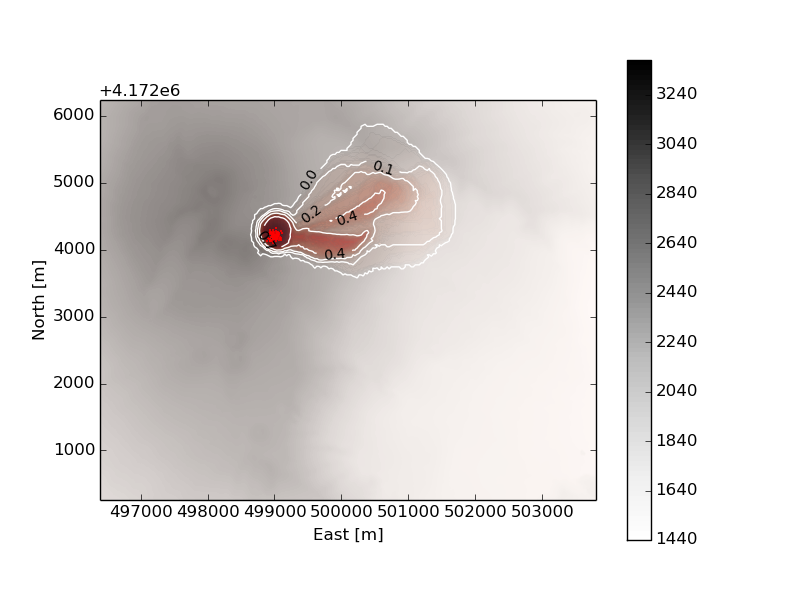
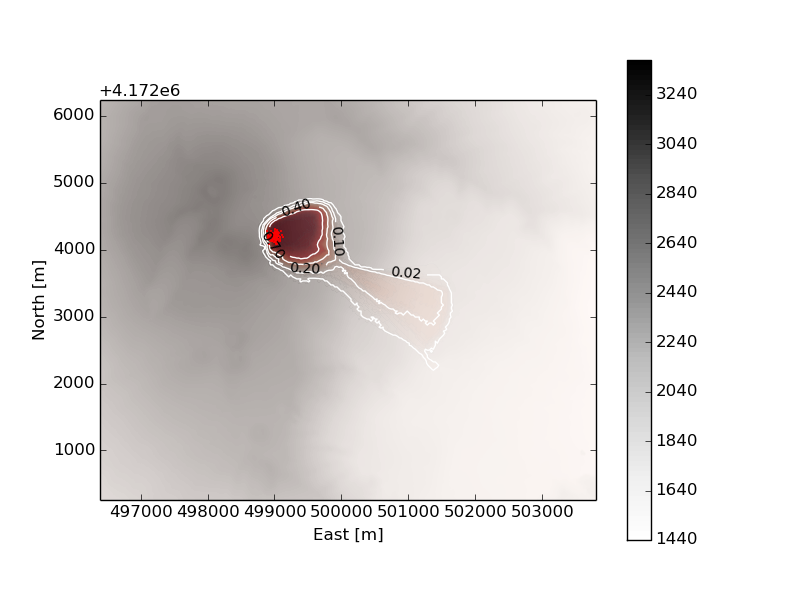
Major changes

Changed region(s): [[0.3125, 0.24, 0.5625, 0.54], [0.4375, 0.21, 0.4688, 0.24]]

diff --git a/ECMapProb.py b/ECMapProb.py
@@ -224,7 +224,7 @@ if(source_dem == 2):
 	for i in range(indexini, indexini + n_north):
 		aux = line[i].split()
 		for j in range(0, n_east):
-			Topography[n_north-1-i+indexini,j] = float(aux[j])
+			Topography[i-indexini,j] = float(aux[j])
 
 # DEFINE THE MATRIX OF COORDINATES
 if(source_dem == 1):
@@ -237,7 +237,7 @@ if(source_dem == 1):
 	matrix_lon = np.zeros((cells_lat,cells_lon))
 	matrix_lat = np.zeros((cells_lat,cells_lon))
 
-	for i in range(0,cells_lon):
+	for i in range(0,cells_lon): 
 		matrix_lon[:,i] = lon1 + (lon2 - lon1)*(i)/(cells_lon-1)
 	for j in range(0,cells_lat):
 		matrix_lat[j,:] = lat1 + (lat2 - lat1)*(cells_lat-1-j)/(cells_lat-1)
@@ -253,6 +253,7 @@ if(source_dem == 2):
 		matrix_east[:,i] = (east_cor + cellsize * i)
 	for j in range(0,n_north):
 		matrix_north[j,:] = (north_cor + cellsize * j)
+	matrix_north = matrix_north[ range(len(matrix_north[:,0]) -1 , -1 , -1 ) , : ]
 
 # CREATE VECTORS OF INPUT PARAMETERS AND DELETE NEGATIVE DATA
 print 'Creating input vectors'
@@ -302,8 +303,8 @@ while( 1 == 1 ):
 if(source_dem == 1):
 
 	if( var_cen > 0.0):
-		lon_cen_vector = np.random.normal(lon_cen,var_cen*step_lon_deg/step_lon_m,N)
-		lat_cen_vector = np.random.normal(lat_cen,var_cen*step_lat_deg/step_lat_m,N)
+		lon_cen_vector = np.random.normal(lon_cen, var_cen * step_lon_deg / step_lon_m, N)
+		lat_cen_vector = np.random.normal(lat_cen, var_cen * step_lat_deg / step_lat_m, N)
 	else:
 		lon_cen_vector = np.ones(N) * lon_cen
 		lat_cen_vector = np.ones(N) * lat_cen
@@ -562,13 +563,13 @@ if(source_dem == 1):
 	plt.contourf(matrix_lon,matrix_lat,Topography,100,cmap=cmapg,min=0)
 	plt.colorbar()
 	cmapr = plt.cm.get_cmap('Reds')
-	CS = plt.contourf(matrix_lon,matrix_lat,data_cones, 100, alpha= 0.5, interpolation='linear', cmap=cmapr, antialiased=True, lw=0.01)	
-	fmt = '%.2f'
 	if( N > 1 ):
-		CS_lines = plt.contour(matrix_lon,matrix_lat,data_cones, np.array([0.02, 0.1, 0.2, 0.4, 0.7]), colors='w', interpolation='linear')
+		CS = plt.contourf(matrix_lon,matrix_lat,data_cones, min(100,N+1), alpha= 0.5, interpolation='linear', cmap=cmapr, antialiased=True, lw=0.01)	
+		fmt = '%.2f'
+		CS_lines = plt.contour(matrix_lon,matrix_lat,data_cones, np.array([0.02, 0.1, 0.2, 0.4, 0.7]), colors='w', interpolation='linear', lw=0.01)
 		plt.clabel(CS_lines, inline=1, fontsize=10, colors='k', fmt=fmt)
 	else:
-		CS_lines = plt.contour(matrix_lon, matrix_lat,data_cones, colors='w', interpolation='linear')
+		CS = plt.contourf(matrix_lon, matrix_lat, data_cones, 100, alpha= 0.5, interpolation='nearest', cmap=cmapr, antialiased=True, lw=0.01)	
 	plt.axes().set_aspect(step_lat_m/step_lon_m)
 	plt.xlabel('Longitude $[^\circ]$')
 	plt.ylabel('Latitude $[^\circ]$')
@@ -580,30 +581,34 @@ if(source_dem == 1):
 		plt.plot( lon_cen_vector[i], lat_cen_vector[i], 'r.', markersize=2)
 	plt.savefig(run_name + '_map.png')
 
-	plt.figure(2)
-	plt.subplot(131)
-	plt.hist(height_vector)
-	plt.xlabel('Initial height [m]')
-	plt.subplot(132)
-	plt.hist(hl0_vector)
-	plt.xlabel('H/L0')
-	plt.subplot(133)
-	plt.hist(hl_vector)
-	plt.xlabel('H/L')
-	plt.savefig(run_name + '_histogram.png')
+	if( N > 1 ):
+		plt.figure(2)
+		plt.subplot(131)
+		plt.hist(height_vector)
+		plt.xlabel('Initial height [m]')
+		plt.subplot(132)
+		plt.hist(hl0_vector)
+		plt.xlabel('H/L0')
+		plt.subplot(133)
+		plt.hist(hl_vector)
+		plt.xlabel('H/L')
+		plt.savefig(run_name + '_histogram.png')
 	plt.show()
-
+	
 if(source_dem == 2):
-	data_cones = data_cones / N
+	data_cones = data_cones[ range(len(data_cones[:,0]) -1 , -1 , -1 ) , : ] / N
 	plt.figure(1)
 	cmapg = plt.cm.get_cmap('Greys')
 	plt.contourf(matrix_east,matrix_north,Topography,100,cmap=cmapg,min=0)
 	plt.colorbar()
 	cmapr = plt.cm.get_cmap('Reds')
-	CS = plt.contourf(matrix_east,matrix_north,data_cones, N+1, alpha= 0.5, interpolation='nearest', cmap=cmapr, min=1e-20, max=1.01, antialiased=True, lw=0.01)	
-	fmt = '%.1f'
-	CS_lines = plt.contour(matrix_east,matrix_north,data_cones, np.array([0.01, 0.1, 0.2, 0.4, 0.7]), min=1e-20, max=1.01, colors='w', linewidth = 0.1, interpolation='nearest')
-	plt.clabel(CS_lines, inline=1, fontsize=10, colors='k', fmt=fmt)
+	if( N > 1 ):
+		CS = plt.contourf(matrix_east,matrix_north,data_cones, min(100,N+1), alpha= 0.5, interpolation='linear', cmap=cmapr, antialiased=True, lw=0.01)	
+		fmt = '%.2f'
+		CS_lines = plt.contour(matrix_east,matrix_north,data_cones, np.array([0.02, 0.1, 0.2, 0.4, 0.7]), colors='w', interpolation='linear', lw=0.01)
+		plt.clabel(CS_lines, inline=1, fontsize=10, colors='k', fmt=fmt)
+	else:
+		CS = plt.contourf(matrix_east,matrix_north,data_cones, 100, alpha= 0.5, interpolation='nearest', cmap=cmapr, antialiased=True, lw=0.01)	
 	plt.axes().set_aspect(1.0)
 	plt.xlabel('East [m]')
 	plt.ylabel('North [m]')
@@ -612,15 +617,16 @@ if(source_dem == 2):
 		plt.plot( east_cen_vector[i], north_cen_vector[i], 'r.', markersize=2)
 	plt.savefig(run_name + '_map.png')
 
-	plt.figure(2)
-	plt.subplot(131)
-	plt.hist(height_vector)
-	plt.xlabel('Initial height [m]')
-	plt.subplot(132)
-	plt.hist(hl0_vector)
-	plt.xlabel('H/L0')
-	plt.subplot(133)
-	plt.hist(hl_vector)
-	plt.xlabel('H/L')
-	plt.savefig(run_name + '_histogram.png')
+	if( N > 1 ):
+		plt.figure(2)
+		plt.subplot(131)
+		plt.hist(height_vector)
+		plt.xlabel('Initial height [m]')
+		plt.subplot(132)
+		plt.hist(hl0_vector)
+		plt.xlabel('H/L0')
+		plt.subplot(133)
+		plt.hist(hl_vector)
+		plt.xlabel('H/L')
+		plt.savefig(run_name + '_histogram.png')
 	plt.show()

diff --git a/EXAMPLES/Phlegrean_Fields_2/input_data.py b/EXAMPLES/Phlegrean_Fields_2/input_data.py
@@ -1,0 +1,56 @@
+# Name of the run (used to save the parameters and the output)
+run_name = Phlegrean_Fields_2
+
+# Source of DEM (1 => SRTM 30 m / 2 => uploaded DEM. A default location is assumed for uploaded DEMS: input_DEM.asc, see an example in EXAMPLES/UploadDEM)
+source_dem = 1
+
+# Map limits (only considered if source_dem = 1)
+# lon1 = longitude of the first limit of the map
+# lon2 = longitude of the second limit of the map 
+# lat1 = latitude of the first limit of the map
+# lat2 = latitude of the second limit of the map
+lon1 = 13.9
+lon2 = 14.4
+lat1 = 40.6
+lat2 = 41.1
+
+# Number of cones
+cone_levels = 30
+
+# Probability distribution of collapse location (1 => Punctual / 2 => Linear / 3 => Circumference arch)
+dist_source = 3
+
+# Parameters of the collapse location
+# lon_cen = longitude of the collapse zone center (only considered if source_dem = 1)
+# lat_cen = latitude of the collapse zone center (only considered if source_dem = 1)
+# east_cen = east coordinate of collapse zone center (only considered if source_dem = 2)
+# north_cen = north coordinate of collapse zone center (only considered if source_dem = 2)
+# var_cen = uncertainty of collapse position (in meters)
+# azimuth_lin = azimuth of the line that define the collapse zone (in degrees, only considered if dist_source = 2)
+# length_lin = length of the line that define the collapse zone (in meters, only considered if dist_source = 2)
+# radius_rad = radius of the circumference arch that define the collapse zone (in meters, only considered if dist_source = 3)
+# ang1_rad = initial angle of the circumference arch that define the collapse zone (in degrees, only considered if dist_source = 3. Anticlockwise)
+# ang2_rad = initial angle of the circumference arch that define the collapse zone (in degrees, only considered if dist_source = 3. Anticlockwise)
+lon_cen = 14.13
+lat_cen = 40.85
+var_cen = 1000.0
+radius_rad = 4000.0
+ang1_rad = -60.0
+ang2_rad = 240.0
+
+# Other parameters of energy cones
+# height = expected height of collapse (above the surface, in meters)
+# hl0 = initial H/L for the energy cones
+# hl = minimum H/L for the energy cones
+# var_height = uncertainty of collapse height (in meters)
+# var_hl0 = uncertainty of hl0
+# var_hl = uncertainty of hl
+height = 800.0
+hl0 = 0.50
+hl = 0.10
+var_height = 200.0
+var_hl0 = 0.03
+var_hl = 0.005
+
+# Number of energy cones computed by the code
+N = 100

diff --git a/EXAMPLES/Phlegrean_Fields/input_data.py b/EXAMPLES/Phlegrean_Fields/input_data.py
@@ -1,0 +1,53 @@
+# Name of the run (used to save the parameters and the output)
+run_name = Phlegrean_Fields
+
+# Source of DEM (1 => SRTM 30 m / 2 => uploaded DEM. A default location is assumed for uploaded DEMS: input_DEM.asc, see an example in EXAMPLES/UploadDEM)
+source_dem = 1
+
+# Map limits (only considered if source_dem = 1)
+# lon1 = longitude of the first limit of the map
+# lon2 = longitude of the second limit of the map 
+# lat1 = latitude of the first limit of the map
+# lat2 = latitude of the second limit of the map
+lon1 = 13.95
+lon2 = 14.35
+lat1 = 40.7
+lat2 = 41.0
+
+# Number of cones
+cone_levels = 30
+
+# Probability distribution of collapse location (1 => Punctual / 2 => Linear / 3 => Circumference arch)
+dist_source = 1
+
+# Parameters of the collapse location
+# lon_cen = longitude of the collapse zone center (only considered if source_dem = 1)
+# lat_cen = latitude of the collapse zone center (only considered if source_dem = 1)
+# east_cen = east coordinate of collapse zone center (only considered if source_dem = 2)
+# north_cen = north coordinate of collapse zone center (only considered if source_dem = 2)
+# var_cen = uncertainty of collapse position (in meters)
+# azimuth_lin = azimuth of the line that define the collapse zone (in degrees, only considered if dist_source = 2)
+# length_lin = length of the line that define the collapse zone (in meters, only considered if dist_source = 2)
+# radius_rad = radius of the circumference arch that define the collapse zone (in meters, only considered if dist_source = 3)
+# ang1_rad = initial angle of the circumference arch that define the collapse zone (in degrees, only considered if dist_source = 3. Anticlockwise)
+# ang2_rad = initial angle of the circumference arch that define the collapse zone (in degrees, only considered if dist_source = 3. Anticlockwise)
+lon_cen = 14.12
+lat_cen = 40.85
+var_cen = 2000.0
+
+# Other parameters of energy cones
+# height = expected height of collapse (above the surface, in meters)
+# hl0 = initial H/L for the energy cones
+# hl = minimum H/L for the energy cones
+# var_height = uncertainty of collapse height (in meters)
+# var_hl0 = uncertainty of hl0
+# var_hl = uncertainty of hl
+height = 800.0
+hl0 = 0.50
+hl = 0.10
+var_height = 200.0
+var_hl0 = 0.03
+var_hl = 0.005
+
+# Number of energy cones computed by the code
+N = 100

diff --git a/EXAMPLES/Santa_Maria/input_data.py b/EXAMPLES/Santa_Maria/input_data.py
@@ -1,0 +1,53 @@
+# Name of the run (used to sav the parameters and the output)
+run_name = Santa_Maria
+
+# Source of DEM (1 => SRTM 30 m / 2 => uploaded DEM. A default location is assumed for uploaded DEMS: input_DEM.asc, see an example in EXAMPLES/UploadDEM)
+source_dem = 1
+
+# Map limits (only considered if source_dem = 1)
+# lon1 = longitude of the first limit of the map
+# lon2 = longitude of the second limit of the map 
+# lat1 = latitude of the first limit of the map
+# lat2 = latitude of the second limit of the map
+lon1 = -91.8
+lon2 = -91.3
+lat1 = 14.4
+lat2 = 14.9
+
+# Number of cones
+cone_levels = 30
+
+# Probability distribution of collapse location (1 => Punctual / 2 => Linear / 3 => Circumference arch)
+dist_source = 1
+
+# Parameters of the collapse location
+# lon_cen = longitude of the collapse zone center (only considered if source_dem = 1)
+# lat_cen = latitude of the collapse zone center (only considered if source_dem = 1)
+# east_cen = east coordinate of collapse zone center (only considered if source_dem = 2)
+# north_cen = north coordinate of collapse zone center (only considered if source_dem = 2)
+# var_cen = uncertainty of collapse position (in meters)
+# azimuth_lin = azimuth of the line that define the collapse zone (in degrees, only considered if dist_source = 2)
+# length_lin = length of the line that define the collapse zone (in meters, only considered if dist_source = 2)
+# radius_rad = radius of the circumference arch that define the collapse zone (in meters, only considered if dist_source = 3)
+# ang1_rad = initial angle of the circumference arch that define the collapse zone (in degrees, only considered if dist_source = 3. Anticlockwise)
+# ang2_rad = initial angle of the circumference arch that define the collapse zone (in degrees, only considered if dist_source = 3. Anticlockwise)
+lon_cen = -91.568
+lat_cen = 14.739
+var_cen = 300.0
+
+# Other parameters of energy cones
+# height = expected height of collapse (above the surface, in meters)
+# hl0 = initial H/L for the energy cones
+# hl = minimum H/L for the energy cones
+# var_height = uncertainty of collapse height (in meters)
+# var_hl0 = uncertainty of hl0
+# var_hl = uncertainty of hl
+height = 1000.0
+hl0 = 0.50
+hl = 0.10
+var_height = 200.0
+var_hl0 = 0.05
+var_hl = 0.005
+
+# Number of energy cones computed by the code
+N = 200

diff --git a/EXAMPLES/El_Fuego/input_data.py b/EXAMPLES/El_Fuego/input_data.py
@@ -1,0 +1,53 @@
+# Name of the run (used to sav the parameters and the output)
+run_name = El_Fuego
+
+# Source of DEM (1 => SRTM 30 m / 2 => uploaded DEM. A default location is assumed for uploaded DEMS: input_DEM.asc, see an example in EXAMPLES/UploadDEM)
+source_dem = 1
+
+# Map limits (only considered if source_dem = 1)
+# lon1 = longitude of the first limit of the map
+# lon2 = longitude of the second limit of the map 
+# lat1 = latitude of the first limit of the map
+# lat2 = latitude of the second limit of the map
+lon1 = -91.2
+lon2 = -90.4
+lat1 = 14.1
+lat2 = 14.7
+
+# Number of cones
+cone_levels = 30
+
+# Probability distribution of collapse location (1 => Punctual / 2 => Linear / 3 => Circumference arch)
+dist_source = 1
+
+# Parameters of the collapse location
+# lon_cen = longitude of the collapse zone center (only considered if source_dem = 1)
+# lat_cen = latitude of the collapse zone center (only considered if source_dem = 1)
+# east_cen = east coordinate of collapse zone center (only considered if source_dem = 2)
+# north_cen = north coordinate of collapse zone center (only considered if source_dem = 2)
+# var_cen = uncertainty of collapse position (in meters)
+# azimuth_lin = azimuth of the line that define the collapse zone (in degrees, only considered if dist_source = 2)
+# length_lin = length of the line that define the collapse zone (in meters, only considered if dist_source = 2)
+# radius_rad = radius of the circumference arch that define the collapse zone (in meters, only considered if dist_source = 3)
+# ang1_rad = initial angle of the circumference arch that define the collapse zone (in degrees, only considered if dist_source = 3. Anticlockwise)
+# ang2_rad = initial angle of the circumference arch that define the collapse zone (in degrees, only considered if dist_source = 3. Anticlockwise)
+lon_cen = -90.880
+lat_cen = 14.474
+var_cen = 300.0
+
+# Other parameters of energy cones
+# height = expected height of collapse (above the surface, in meters)
+# hl0 = initial H/L for the energy cones
+# hl = minimum H/L for the energy cones
+# var_height = uncertainty of collapse height (in meters)
+# var_hl0 = uncertainty of hl0
+# var_hl = uncertainty of hl
+height = 500.0
+hl0 = 0.50
+hl = 0.10
+var_height = 200.0
+var_hl0 = 0.05
+var_hl = 0.005
+
+# Number of energy cones computed by the code
+N = 100
